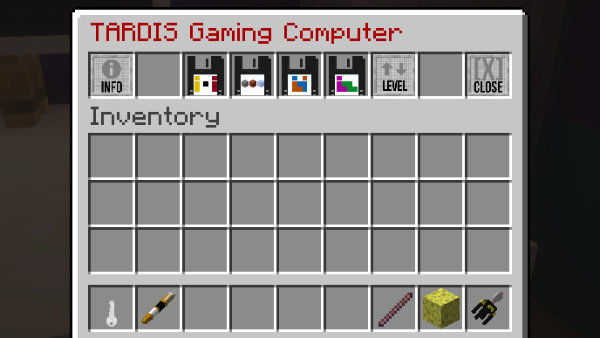
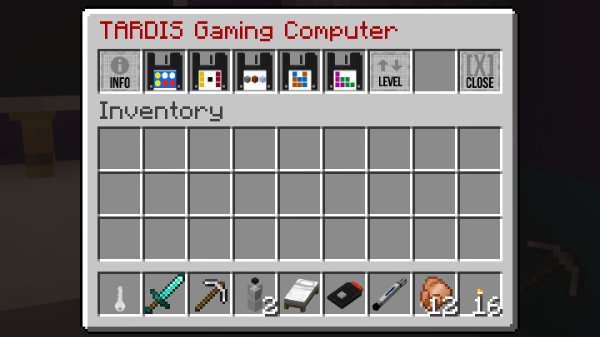
Add connect four

diff --git a/docs/site-map.md b/docs/site-map.md
@@ -89,6 +89,7 @@ import TabItem from '@theme/TabItem';
 [Console](console "Console")  
 [Config editor](editor)  
 [Configuration](configuration/ "Configuration")  
+[Connect Four](rooms/games#connect-four "Connect Four")  
 [Console Gallery](interiors "Console Gallery")  
 [Console Permissions](permissions-table#console-perms "Console Permissions")  
 [Control Menu](control-menu "Control Menu")  
@@ -155,6 +156,7 @@ import TabItem from '@theme/TabItem';
 [Gallifreyan blueprint merchants](modules/blueprints#gallifreyan-traders)  
 [Gamemode command](commands/misc#tardisgamemode "Gamemode command")  
 [Games room](/rooms/games "Games room")  
+[Gaming computer](/rooms/games#tardis-gaming-computer "Gaming computer")  
 [Garden room](rooms/garden)  
 [Genetic Manipulator](lazarus "Genetic Manipulator")  
 [Give commands](commands/give "Give commands")  
@@ -245,6 +247,7 @@ import TabItem from '@theme/TabItem';
 [Player preferences](commands/player-preferences "Player preferences")  
 [Player Storage Disks](writing-disks#writing-player-disks "Player Storage Disks")  
 [Police Box Configuration](configuration/preset "Police Box Configuration")  
+[Pong](rooms/games#pong "Pong")  
 [Preferences Configuration](configuration/prefs "Preferences Configuration")  
 [Preset Storage Disks](crafting-disks#preset-storage-disks "Preset Storage Disks")  
 [Pruning](prune "Pruning")  
@@ -310,6 +313,7 @@ import TabItem from '@theme/TabItem';
 [Sutekh](modules/weeping-angels#sutekh "Sutekh")  
 [Sycorax](modules/weeping-angels#sycorax "Sycorax")  
 [SQLite -> MySQL conversion tool](sqlite-mysql-tool "Spigot")  
+[Stone Magma Ice](rooms/games#stone-magma-ice "Stone Magma Ice")  
 [Storage Configuration](configuration/storage "Storage Configuration")  
 [Super Fertiliser](chemistry-lab/products#super-fertiliser "Super Fertiliser")  
 [System Upgrades](system-upgrades "System Upgrades")  
@@ -321,6 +325,7 @@ import TabItem from '@theme/TabItem';
 [TARDIS console](console "TARDIS Console")  
 [TARDIS creation yard](tardis-areas#forcec "TARDIS creation yard")  
 [TARDIS Display](display "TARDIS Display")  
+[TARDIS Gaming computer](/rooms/games#tardis-gaming-computer "TARDIS Gaming computer")  
 [TARDIS Information System](tis "TARDIS Information System")  
 [TARDIS Interior Sounds](hum "TARDIS Interior Sounds")  
 [TARDIS Locator](tardis-items#locator "TARDIS Locator")  
@@ -335,9 +340,11 @@ import TabItem from '@theme/TabItem';
 [/tardisworld commands](world-management "World commands")  
 [Telescope](chemistry-lab/telescope "Telescope")  
 [Temporal Locator](temporal-locator "Temporal Locator")  
+[Tetris](rooms/games#tetris "Tetris")  
 [Texture Commands](commands/texture "Texture Commands")  
 [The Beast](modules/weeping-angels#the-beast "The Beast")  
 [The TARDIS door](enter-and-exit "The TARDIS door")  
+[Tic Tac Toe](rooms/games#tic-tac-toe "Tic Tac Toe")  
 [Time command](commands/misc#tardistime "Time command")  
 [Time Rotor](time-rotor "Time Rotor")  
 [Time travel](time-travel "Time travel")  

diff --git a/docs/rooms/games.md b/docs/rooms/games.md
@@ -22,6 +22,24 @@ The games room contains a gaming computer - _right-clicking_ the computer mouse 
 
 ![Gaming Computer GUI](/images/docs/gaming_computer_gui.jpg)
 
+## Connect Four
+
+Connect four of your tokens in a row while preventing the TARDIS from doing the same.
+
+- `Player` plays red tokens (red concrete powder).
+- `TARDIS` plays yellow tokens (yellow concrete powder).
+
+![Pong](/images/docs/connect4.jpg)
+
+To play:
+
+- Click a slot at the top of a column to drop a block.
+- The TARDIS will choose shortly after.
+- Continue taking turns to drop tokens into a column.
+- First to connect four blocks wins!
+
+Click the reset button to play again.
+
 ## Pong
 
 Control a paddle by moving it vertically across the left side of the 'screen'. Hit the moving ball back and forth. The goal is to reach eleven points before the TARDIS; points are earned when either side fails to return the ball.
